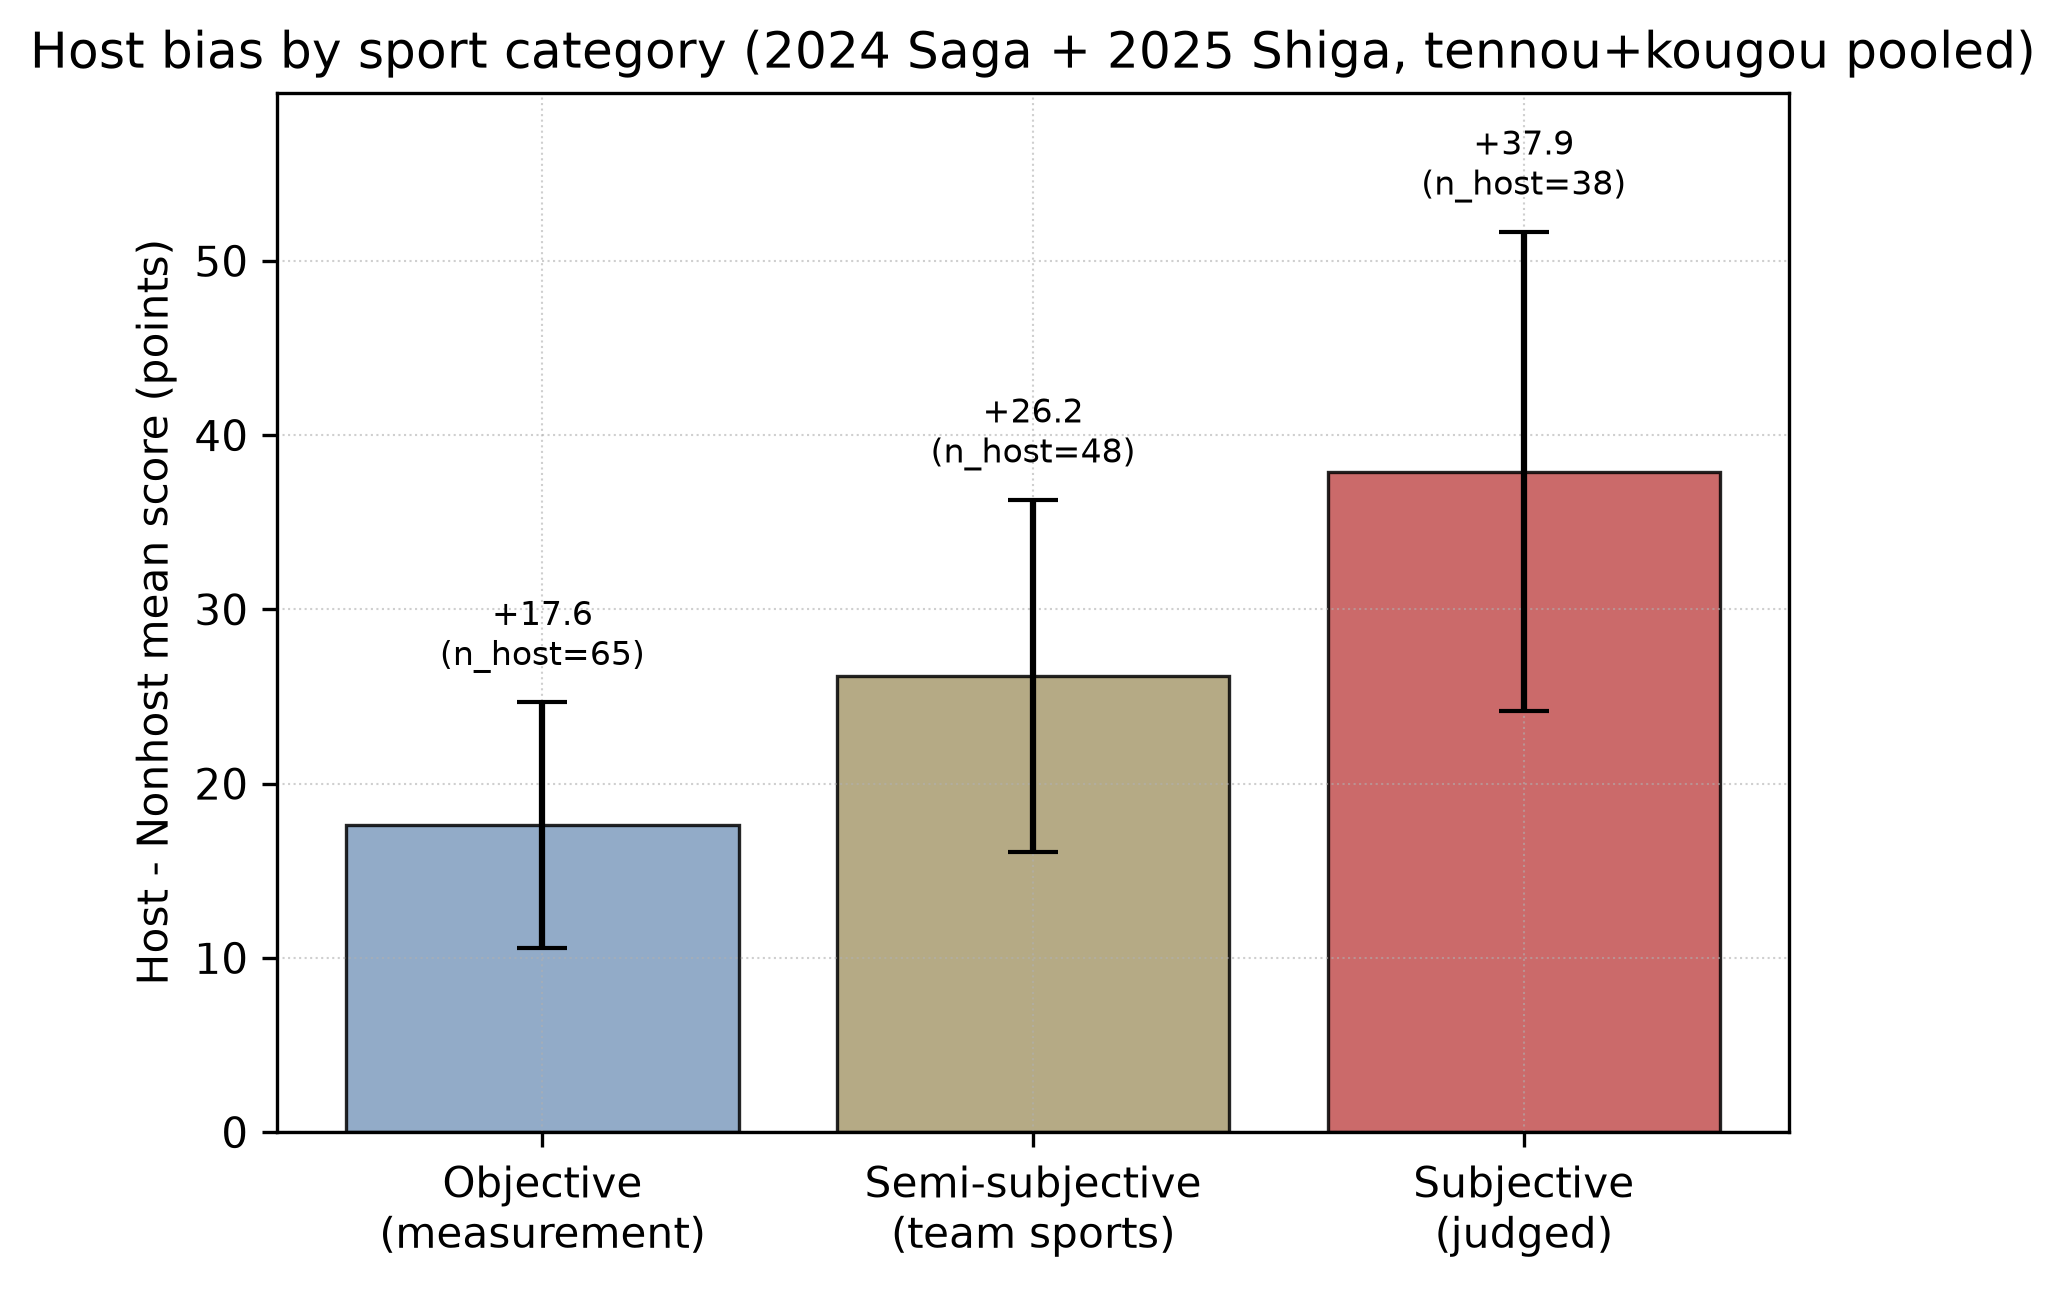
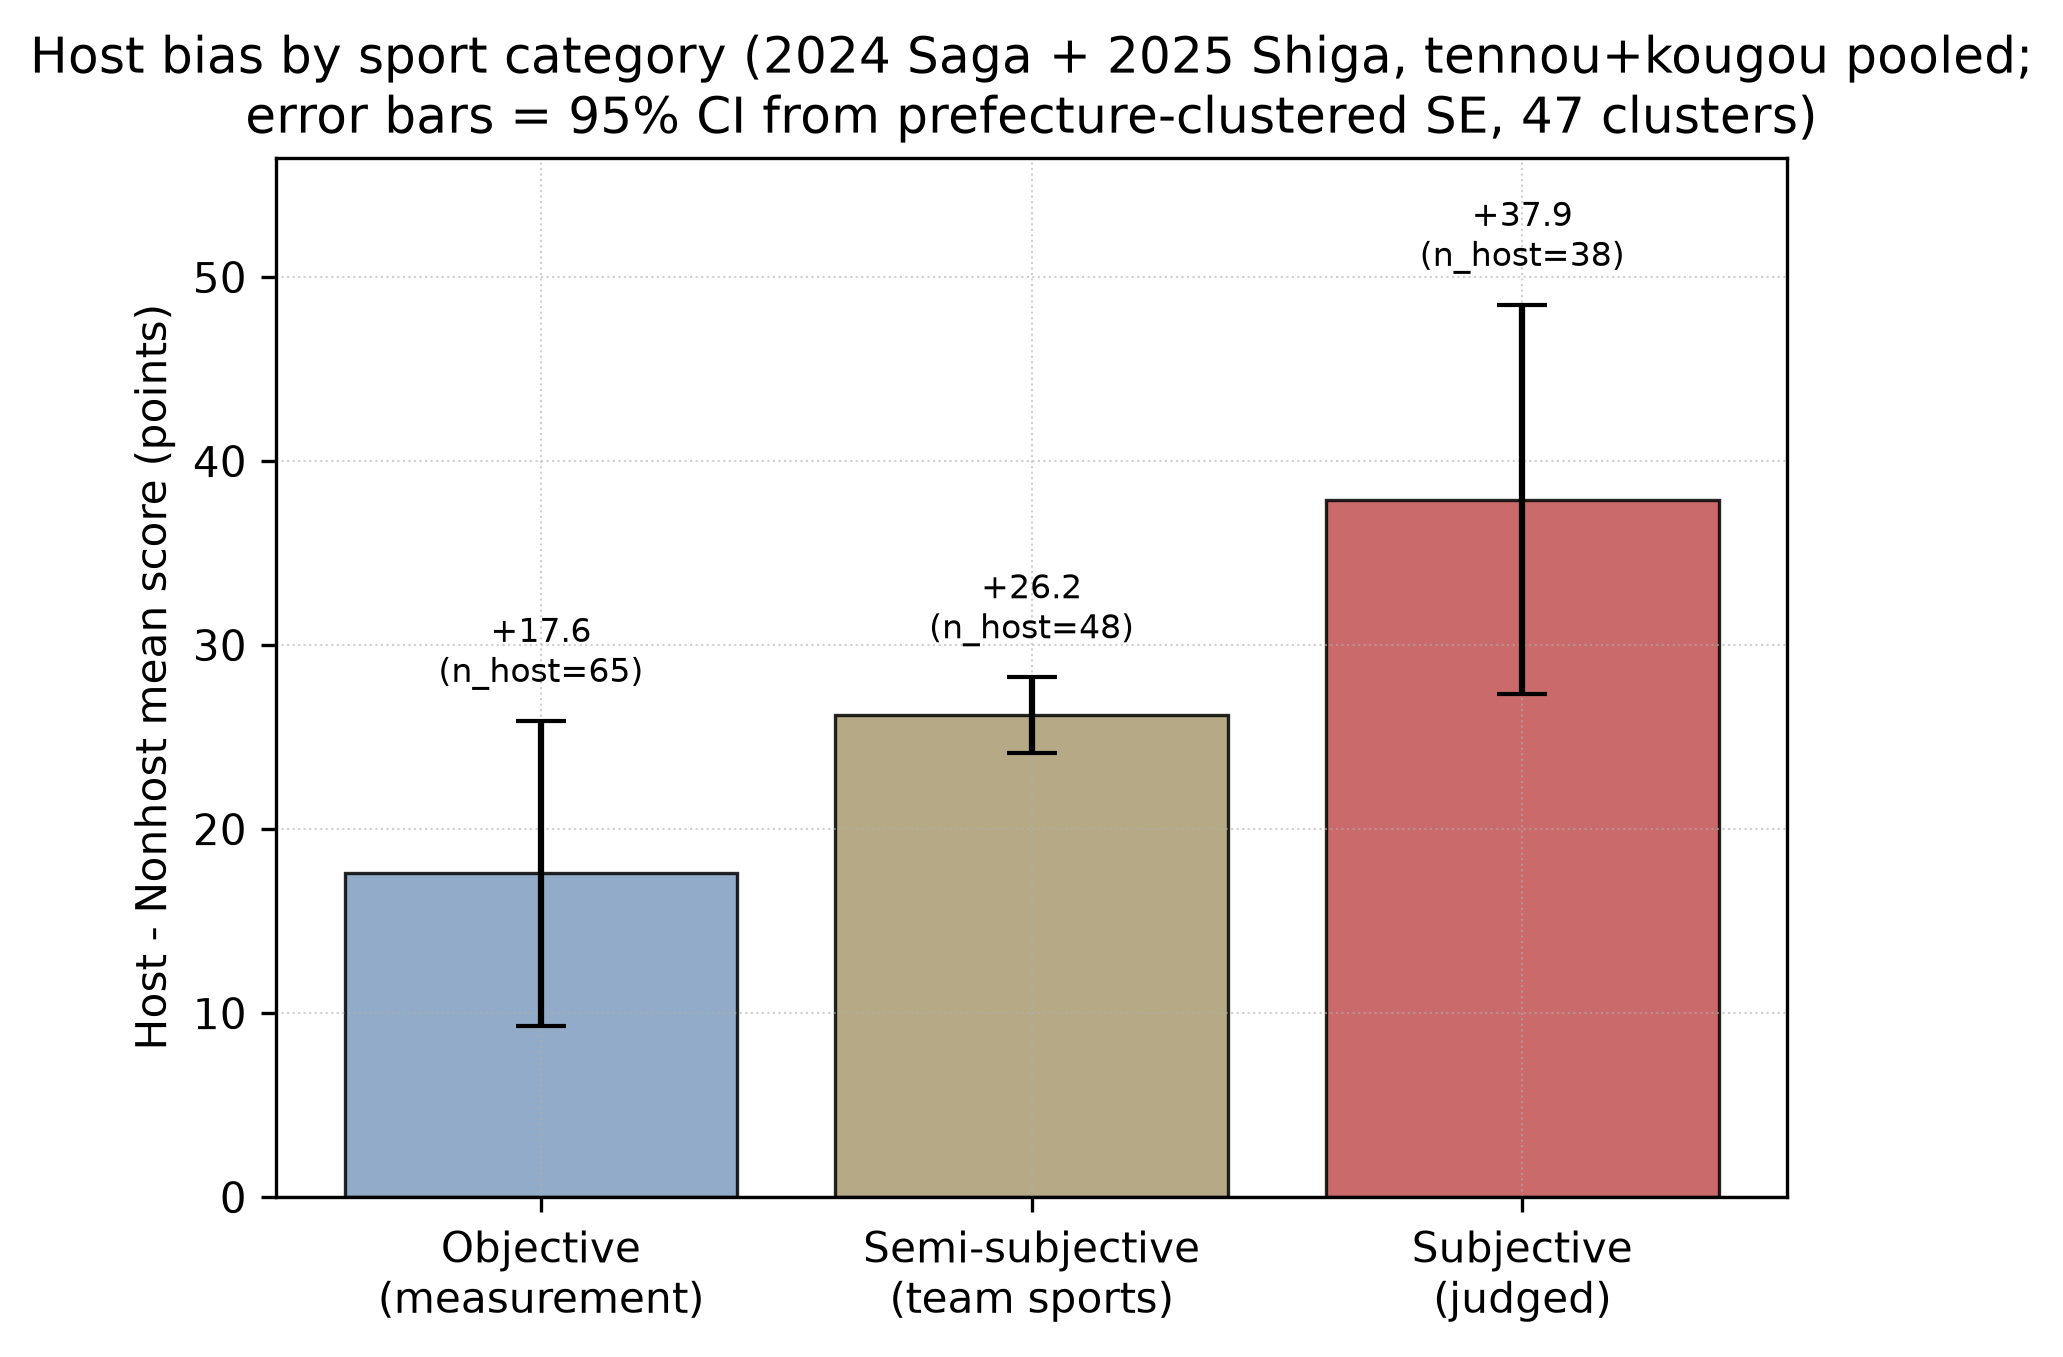
fix(plots)+docs: Finding #8 Fig 2 error bars to prefecture-clustered SE
src/plots.py plot_fig2_subj_vs_obj_host_bias was computing error bars from
a simple two-sample variance formula (sqrt(h.var/n_h + nh.var/n_nh) × 1.96),
which assumes cell-level independence and understates SE by ignoring the
within-prefecture cross-sport correlation of same-year cells. Replaced with
per-category `score ~ is_host` OLS with cov_type='cluster' on pref_code
(47 clusters). Bar heights are unchanged (group-mean identity holds under
OLS with a single dummy); only error-bar widths update.

Also unified the plot title and manuscript Fig 2 caption on "95% CI
(1.96 × prefecture-clustered SE, 47 clusters)", removing the legacy
"± 1 SE" wording that was inconsistent with both the Results body
("95% confidence intervals") and the actual 1.96 multiplier in the code.

pytest test_plots 9/9 passing (smoke tests, no SE numeric assertions).

Ref: REVIEW-REPORT-asura-monju-round1.md Finding #8 (P2).

diff --git a/src/plots.py b/src/plots.py
@@ -118,7 +118,13 @@ def plot_fig2_subj_vs_obj_host_bias() -> tuple[Path, Path]:
 
     Balmer2003 novelty core: subjective が objective/semi_subjective を有意に上回るか。
     baseline 係数 = coef_is_host (= objective の host boost) + 分類別 additive coef.
+
+    Finding #8 fix: SE は per-category `score ~ is_host` OLS の prefecture-clustered
+    SE (47 clusters) を使う。旧実装の two-sample var/n formula は cell 独立性を
+    仮定していて、同一県内の年内多sport clustering を過小推定する。
     """
+    import statsmodels.api as sm
+
     df = build_cross_section_frame()
     desc = descriptive_by_category(df).set_index("category")
 
@@ -127,15 +133,15 @@ def plot_fig2_subj_vs_obj_host_bias() -> tuple[Path, Path]:
     means = [desc.loc[cat, "diff_mean_host_minus_nonhost"] for cat in categories]
     n_hosts = [int(desc.loc[cat, "count_host"]) for cat in categories]
 
-    # SE from OLS-per-category baseline: score ~ is_host in each subset
+    # Per-category prefecture-clustered SE from `score ~ is_host` OLS
     ses = []
     for cat in categories:
-        sub = df[df["category"] == cat]
-        # 簡易 SE = std / sqrt(n_host) + std / sqrt(n_nonhost) の diff SE
-        h = sub[sub["is_host"]]["score"]
-        nh = sub[~sub["is_host"]]["score"]
-        se = np.sqrt(h.var(ddof=1) / len(h) + nh.var(ddof=1) / len(nh))
-        ses.append(float(se))
+        sub = df[df["category"] == cat].copy()
+        sub["is_host_int"] = sub["is_host"].astype(int)
+        X = sm.add_constant(sub[["is_host_int"]].astype(float))
+        y = sub["score"].astype(float)
+        model = sm.OLS(y, X).fit(cov_type="cluster", cov_kwds={"groups": sub["pref_code"]})
+        ses.append(float(model.bse["is_host_int"]))
     ci95 = [1.96 * s for s in ses]
 
     fig, ax = plt.subplots(figsize=(6.5, 4.5))
@@ -149,7 +155,8 @@ def plot_fig2_subj_vs_obj_host_bias() -> tuple[Path, Path]:
     ax.set_xticks(xs)
     ax.set_xticklabels(labels)
     ax.set_ylabel("Host - Nonhost mean score (points)")
-    ax.set_title("Host bias by sport category (2024 Saga + 2025 Shiga, tennou+kougou pooled)")
+    ax.set_title("Host bias by sport category (2024 Saga + 2025 Shiga, tennou+kougou pooled;\n"
+                 "error bars = 95% CI from prefecture-clustered SE, 47 clusters)")
     ax.set_ylim(0, max(means) + max(ci95) + 8)
     return _save(fig, "fig2_subj_vs_obj_host_bias")
 

diff --git a/manuscript.md b/manuscript.md
@@ -298,7 +298,7 @@ All input data used in this study are publicly available. Prefecture rankings ar
 
 **Figure 1.** Host-championship rate at the Kokutai emperor's cup, 1948-2025. Each point is one edition (with the 2020/2021 cancelled and 2023 special-edition years handled as noted in the figure). Six host-loss years (2002 Kochi, 2016 Iwate, 2017 Ehime, 2022 Tochigi, 2023 Kagoshima special, 2024 Saga) are highlighted in red. The two post-2016 host-loss clusters (2016-17 and 2022-24) are separated by host wins in 2018 Fukui and 2019 Ibaraki.
 
-**Figure 2.** Host-versus-non-host per-sport score gap, by Balmer2003 sport category, in the 2024-2025 stacked cross-section (n = 6,991). Bars show the mean host boost in points; error bars show ± 1 SE (prefecture-clustered). Objective sports (n = 16, n_host_cells = 65): +17.6 points. Semi-subjective / team sports (n = 13, n_host_cells = 48): +26.2 points. Subjective sports (n = 11, n_host_cells = 38): +37.9 points. The monotonic ordering matches the Balmer2003 prediction.
+**Figure 2.** Host-versus-non-host per-sport score gap, by Balmer2003 sport category, in the 2024-2025 stacked cross-section (n = 6,991). Bars show the mean host boost in points; error bars show 95% confidence intervals (1.96 × prefecture-clustered SE, 47 clusters, per-category `score ~ is_host` OLS). Objective sports (n = 16, n_host_cells = 65): +17.6 points. Semi-subjective / team sports (n = 13, n_host_cells = 48): +26.2 points. Subjective sports (n = 11, n_host_cells = 38): +37.9 points. The monotonic ordering matches the Balmer2003 prediction.
 
 **Figure 3.** Two-layer event-study τ-coefficient trails on top-1 (championship) status. Layer 1: 2002 Kochi single host-loss event (pre-2005 *furusato*-athlete-rule regime). Layer 2: post-2016 stacked five host-loss events (2016 Iwate, 2017 Ehime, 2022 Tochigi, 2023 Kagoshima special, 2024 Saga). The identifying variation is thin (see Results); the figure is included as a design check rather than as an independent identifying analysis.
 
